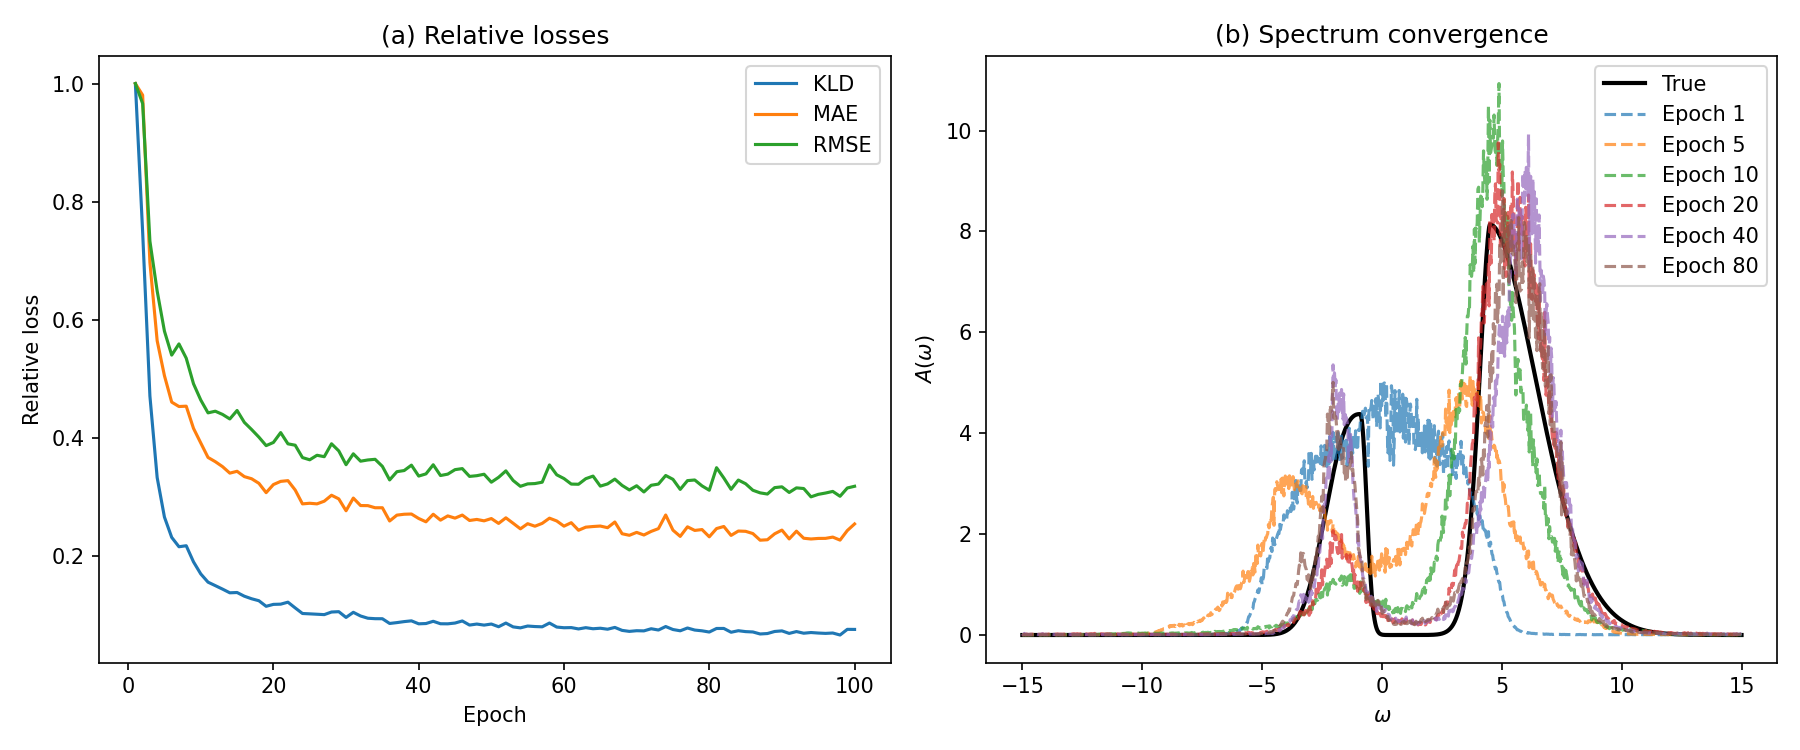
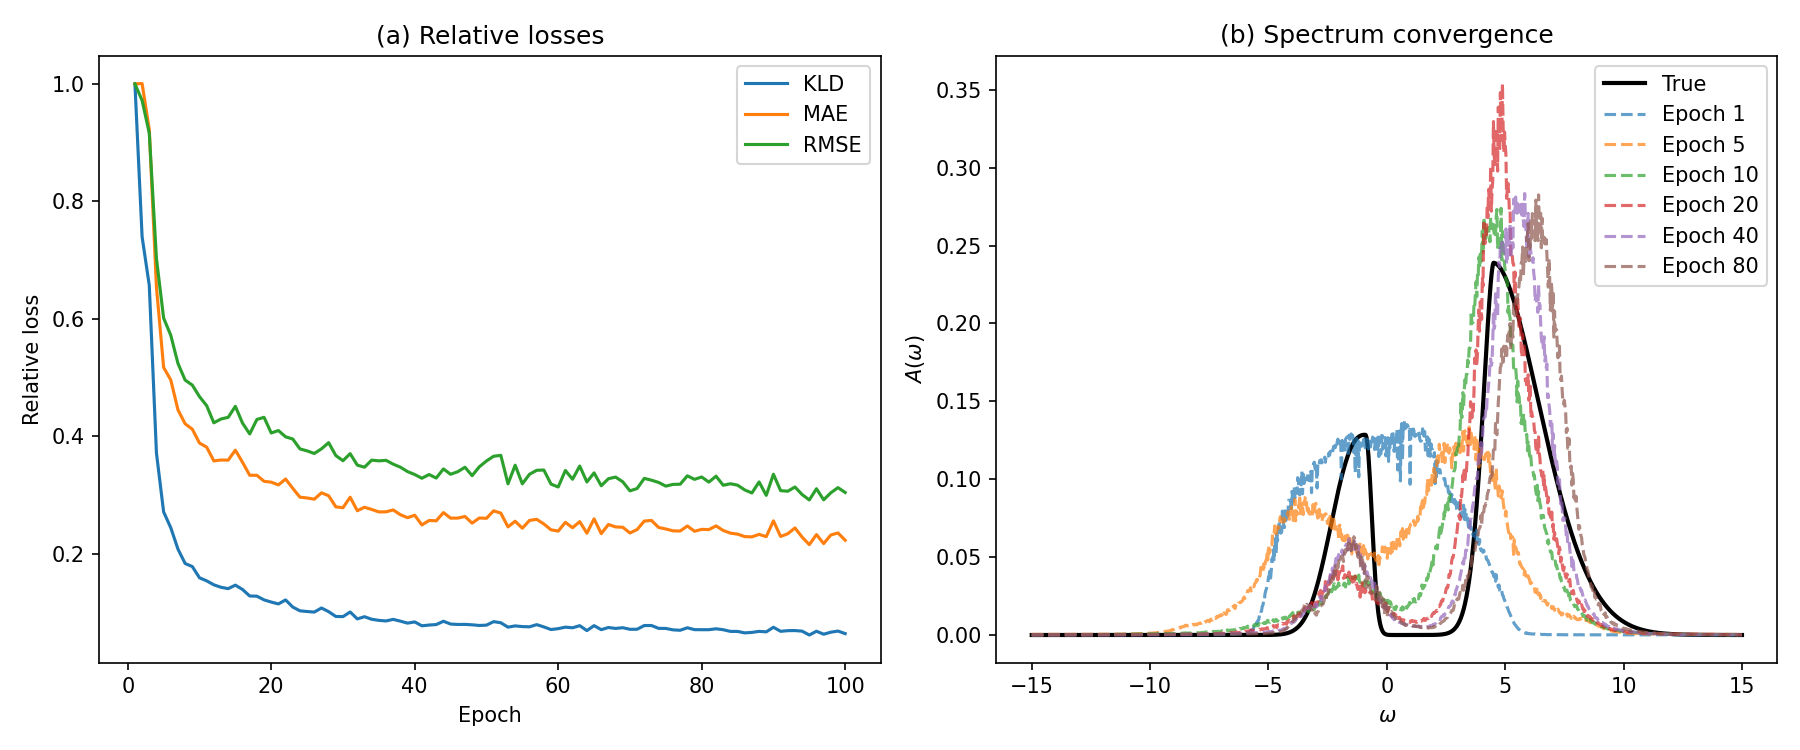
feat: スペクトル出力を密度形式（∫A dω=1）に統一 (#1)
* docs: README にスペクトル密度形式（∫A dω=1）の説明を追加

Made-with: Cursor

* fix: プロットで密度を二重に補正していたバグを修正（A_track/predは既に密度形式）

Made-with: Cursor

* refactor: データセットをA_prob返却に統一、プロットで物理スペクトル表示

- データセット: A_prob (Σ=1) を返す（論文の Δω 吸収形式）
- コールバック: A_prob を受け取り密度に変換して KLD 計算
- プロット: A(ω) = A_prob/Δω で物理スペクトル表示（ピーク O(0.1)）
- カーネル: Δω = 30/1024（設計ドキュメント準拠）
- verify_integral.py: A_prob 用に更新

Made-with: Cursor

diff --git a/scripts/reproduce_fig2.py b/scripts/reproduce_fig2.py
@@ -33,17 +33,15 @@ def main():
     n_train, n_test = 1000, 500
     sigma = 1e-3
     _, _, d_omega = get_tau_omega()
-    G_train, A_train_density = generate_dataset(n_train, sigma, seed=0)
-    G_test, A_test_density = generate_dataset(n_test, sigma, seed=1)
-    # 学習用: モデルは確率 (sum=1) を出力するので、ターゲットも確率に
-    A_train_prob = A_train_density * d_omega
-    # 図2(b) 用の固定サンプル（密度のまま）
+    G_train, A_train_prob = generate_dataset(n_train, sigma, seed=0)
+    G_test, A_test_prob = generate_dataset(n_test, sigma, seed=1)
+    # 図2(b) 用の固定サンプル（A_prob のまま）
     G_track = G_test[:1]
-    A_track = A_test_density[0]
+    A_track = A_test_prob[0]
     # チェックポイント: 相対KLDが落ちるポイントを狙う
     checkpoint_epochs = [1, 5, 10, 20, 40, 80]
     cb = Fig2Callback(
-        G_test, A_test_density, G_track, A_track, d_omega, checkpoint_epochs
+        G_test, A_test_prob, G_track, A_track, d_omega, checkpoint_epochs
     )
     model = build_nnac()
     model.compile(optimizer="adam", loss="kl_divergence")
@@ -73,13 +71,14 @@ def main():
     ax.set_ylabel("Relative loss")
     ax.legend()
     ax.set_title("(a) Relative losses")
-    # 図2(b): スペクトル密度 A(ω)/Δω をプロット（∫A dω = 1 になる正規化）
+    # 図2(b): 物理的スペクトル A(ω)（∫A dω=1）でプロット
+    # 論文: A(ω) = A_prob/Δω。データセットは A_prob を返すので /d_omega で変換。
     ax = axes[1]
-    _, omega, d_omega = get_tau_omega()
-    A_track_density = A_track / d_omega  # 確率→密度: ∫A dω = Σ(A/Δω)·Δω = 1
-    ax.plot(omega, A_track_density, "k-", label="True", lw=2)
-    for ep, pred in sorted(cb.checkpoint_preds.items()):
-        ax.plot(omega, pred / d_omega, "--", alpha=0.7, label=f"Epoch {ep}")
+    _, omega, _ = get_tau_omega()
+    A_plot = A_track / d_omega  # A_prob → 物理スペクトル A(ω)
+    ax.plot(omega, A_plot, "k-", label="True", lw=2)
+    for ep, pred_density in sorted(cb.checkpoint_preds.items()):
+        ax.plot(omega, pred_density, "--", alpha=0.7, label=f"Epoch {ep}")
     ax.set_xlabel(r"$\omega$")
     ax.set_ylabel(r"$A(\omega)$")
     ax.legend()
@@ -89,6 +88,11 @@ def main():
     plt.savefig("output/fig2_training_process.png", dpi=150)
     plt.close()
     print("Saved output/fig2_training_process.png")
+    # 積分検証: A_prob は Σ=1、pred_density は ∫A dω = Σ A_j Δω = 1
+    integral_true = np.sum(A_track)  # A_prob: Σ = 1
+    last_ep = max(cb.checkpoint_preds) if cb.checkpoint_preds else 0
+    integral_pred = np.sum(cb.checkpoint_preds[last_ep]) * d_omega if last_ep else 0
+    print(f"Integral check: True ΣA_prob = {integral_true:.6f}, Pred ∫A dω = {integral_pred:.6f}")
 
 
 if __name__ == "__main__":

diff --git a/src/training/callbacks.py b/src/training/callbacks.py
@@ -7,28 +7,29 @@ class Fig2Callback(keras.callbacks.Callback):
     def __init__(self, G_test, A_test, G_track, A_track, d_omega, checkpoint_epochs=None):
         super().__init__()
         self.G_test = G_test
-        self.A_test = A_test  # 密度 (∫A dω = 1)
+        self.A_test = A_test  # A_prob (Σ=1、論文の Δω 吸収形式)
         self.G_track = G_track
-        self.A_track = A_track  # 密度 (∫A dω = 1)
+        self.A_track = A_track  # A_prob
         self.d_omega = d_omega
         self.checkpoint_epochs = set(checkpoint_epochs or [])
         self.history = {"kld": [], "mae": [], "rmse": [], "epochs": []}
-        self.checkpoint_preds = {}  # epoch -> pred
+        self.checkpoint_preds = {}  # epoch -> pred_density (∫A dω=1)
 
     def on_epoch_end(self, epoch, logs=None):
         pred_prob = self.model.predict(self.G_test, verbose=0)  # 確率 (sum=1)
-        pred_density = pred_prob / self.d_omega  # 密度 (∫A dω = 1)
+        pred_density = pred_prob / self.d_omega  # 密度 A(ω) = A_prob/Δω
+        A_density = self.A_test / self.d_omega  # A_prob → 密度
         eps = 1e-10
         # 論文式(6): D_KL = Σ A_true ln(A_true/A_pred) = CE - H(A_true)
-        # 密度形式: A_true, A_pred はともに密度
+        # 密度形式で計算
         kld_list = []
         for i in range(len(self.A_test)):
-            ce = -np.sum(self.A_test[i] * self.d_omega * np.log(pred_density[i] + eps))
-            h = -np.sum(self.A_test[i] * self.d_omega * np.log(self.A_test[i] + eps))
+            ce = -np.sum(A_density[i] * self.d_omega * np.log(pred_density[i] + eps))
+            h = -np.sum(A_density[i] * self.d_omega * np.log(A_density[i] + eps))
             kld_list.append(ce - h)  # KL = CE - H
         kld = np.mean(kld_list)
-        mae = np.mean(np.abs(self.A_test - pred_density))
-        mse = np.mean((self.A_test - pred_density) ** 2)
+        mae = np.mean(np.abs(A_density - pred_density))
+        mse = np.mean((A_density - pred_density) ** 2)
         rmse = np.sqrt(mse)
         self.history["kld"].append(float(kld))
         self.history["mae"].append(float(mae))

diff --git a/src/data/dataset.py b/src/data/dataset.py
@@ -10,8 +10,8 @@ def generate_dataset(
     n_peaks: int = 4,
     seed: int | None = None,
 ) -> tuple[np.ndarray, np.ndarray]:
-    """(G_noisy, A_density) を返す。G: (n_samples, 512), A_density: (n_samples, 1024).
-    A_density は ∫A dω = 1 を満たすスペクトル密度（正規化済み）。
+    """(G_noisy, A_prob) を返す。G: (n_samples, 512), A_prob: (n_samples, 1024).
+    A_prob は Σ A(ωⱼ)Δω = 1 の確率（論文の Δω 吸収形式）。物理スペクトルは A(ω) = A_prob/Δω。
     """
     _, _, d_omega = get_tau_omega()
     rng = np.random.default_rng(seed)
@@ -21,7 +21,6 @@ def generate_dataset(
         G = spectrum_to_G(A_prob)
         noise = rng.normal(0, sigma, size=G.shape)
         G_noisy = G + noise
-        A_density = A_prob / d_omega  # ∫A_density dω = 1
-        A_list.append(A_density)
+        A_list.append(A_prob)
         G_list.append(G_noisy)
     return np.array(G_list, dtype=np.float32), np.array(A_list, dtype=np.float32)

diff --git a/scripts/verify_integral.py b/scripts/verify_integral.py
@@ -1,0 +1,18 @@
+#!/usr/bin/env python3
+"""スペクトル正規化の検証（TensorFlow不要）
+データセットは A_prob（Σ=1）を返す。∫A dω = Σ A_prob = 1。
+"""
+import sys
+import os
+sys.path.insert(0, os.path.dirname(os.path.dirname(os.path.abspath(__file__))))
+
+from src.data.kernel import get_tau_omega
+from src.data.dataset import generate_dataset
+
+_, _, d_omega = get_tau_omega()
+_, A_prob = generate_dataset(10, 1e-3, seed=42)
+
+print(f"d_omega = {d_omega}")
+for i in range(3):
+    integral = A_prob[i].sum()  # A_prob: Σ = 1 = ∫A dω（論文の Δω 吸収形式）
+    print(f"  サンプル {i}: Σ A_prob = ∫A dω = {integral:.10f}  (期待値: 1.0)")

diff --git a/src/data/kernel.py b/src/data/kernel.py
@@ -9,10 +9,11 @@ BETA = 16.0
 
 
 def get_tau_omega():
-    """τ, ω の離散グリッドを返す。d_omega は可視化等に使用。"""
+    """τ, ω の離散グリッドを返す。d_omega は設計ドキュメント準拠で Δω = 30/1024。"""
     tau = np.linspace(0, TAU_MAX, N_TAU, endpoint=False)
     omega = np.linspace(OMEGA_MIN, OMEGA_MAX, N_OMEGA)
-    d_omega = (OMEGA_MAX - OMEGA_MIN) / (N_OMEGA - 1)
+    # 設計ドキュメント: Δω = 30/1024（セル幅）。∫A dω = Σ A_j Δω = 1 の離散化に使用
+    d_omega = (OMEGA_MAX - OMEGA_MIN) / N_OMEGA
     return tau, omega, d_omega
 
 

diff --git a/README.md b/README.md
@@ -30,7 +30,8 @@ pytest tests/test_kernel.py tests/test_spectra.py -v
 
 `test_imports.py` は TensorFlow を import するため、上記環境問題がある場合はスキップされます。
 
-## スペクトル正規化
+## スペクトル正規化（論文準拠）
 
-- 教師データ・予測スペクトルは **sum(A)=1**（論文の Δω 吸収形式）で正規化されています
-- モデル出力層は Softmax により自動的に正規化されます
+- **データセット**: A_prob（Σ A(ωⱼ)Δω = 1、論文の Δω 吸収形式）を返す
+- **物理スペクトル**: A(ω) = A_prob/Δω。∫A(ω)dω = 1 を満たす
+- **プロット**: 物理スペクトル A(ω) を表示（ピークのオーダー O(0.1)）
